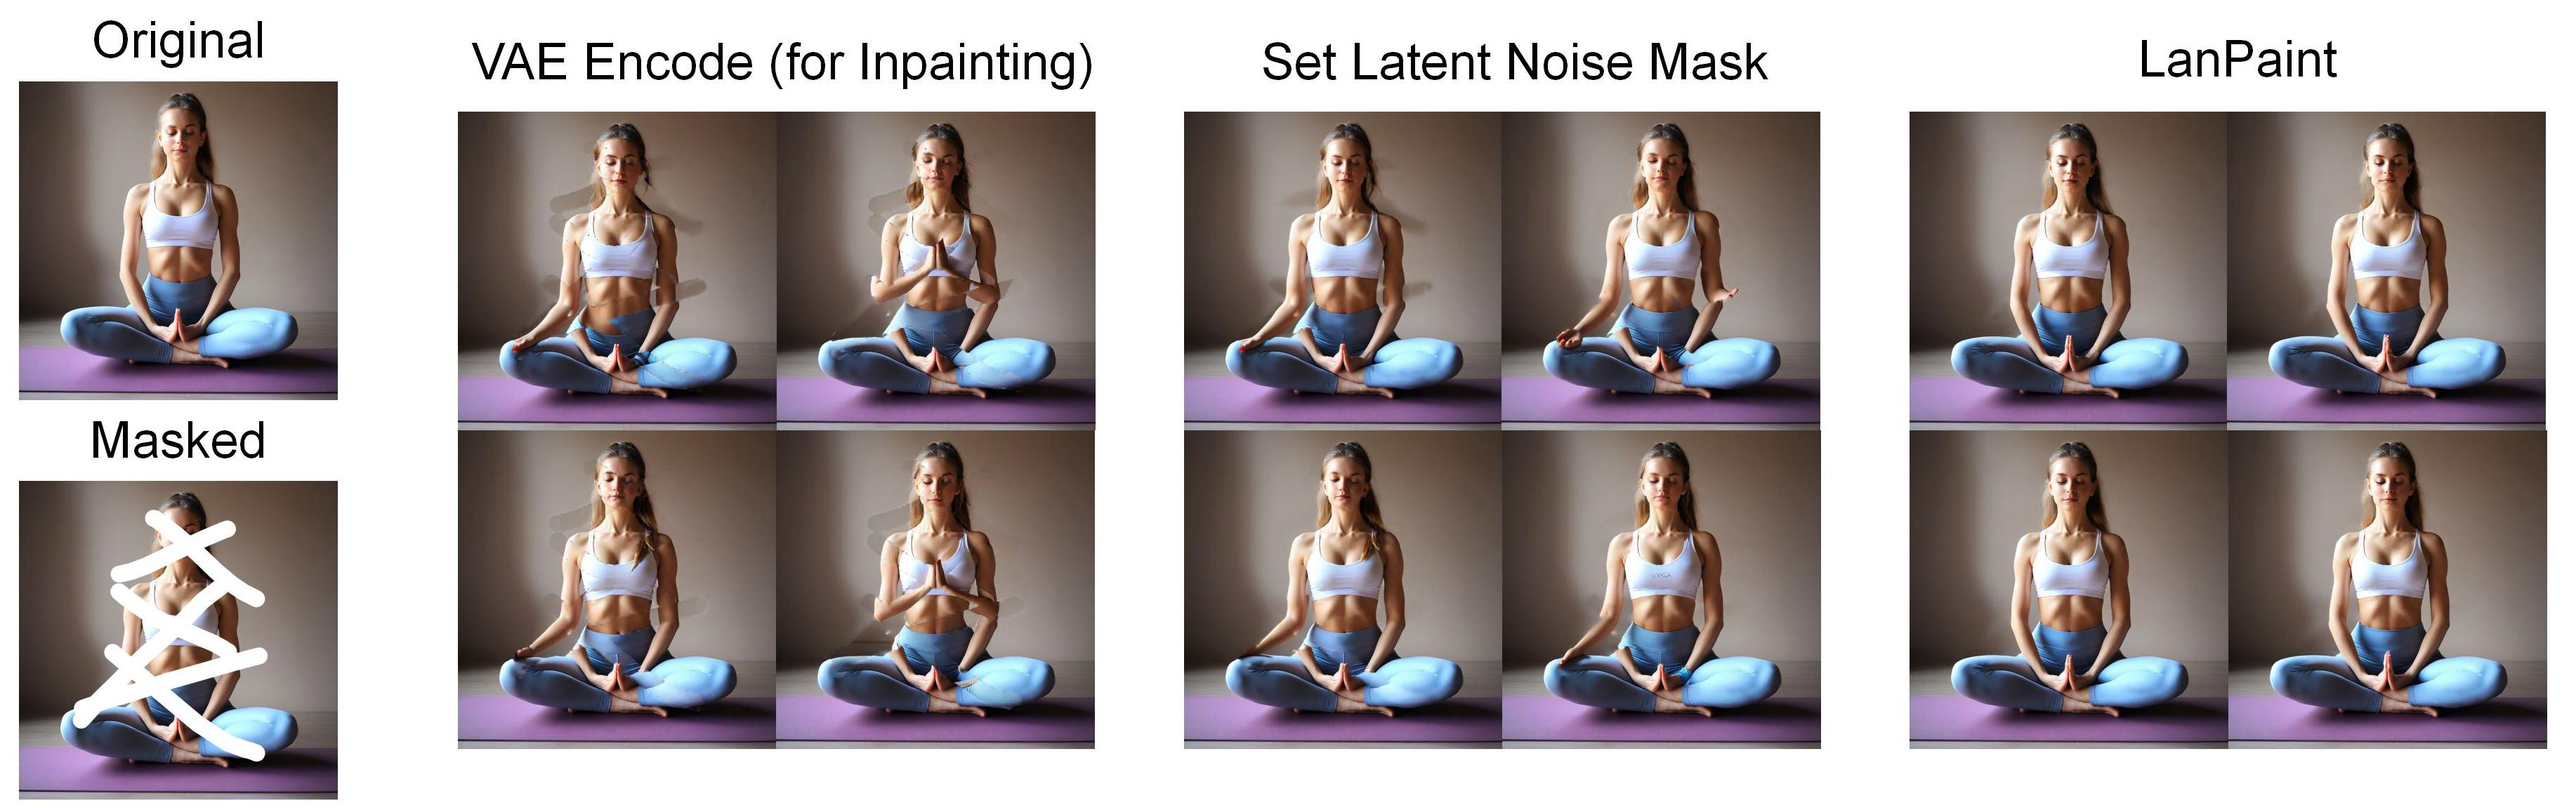
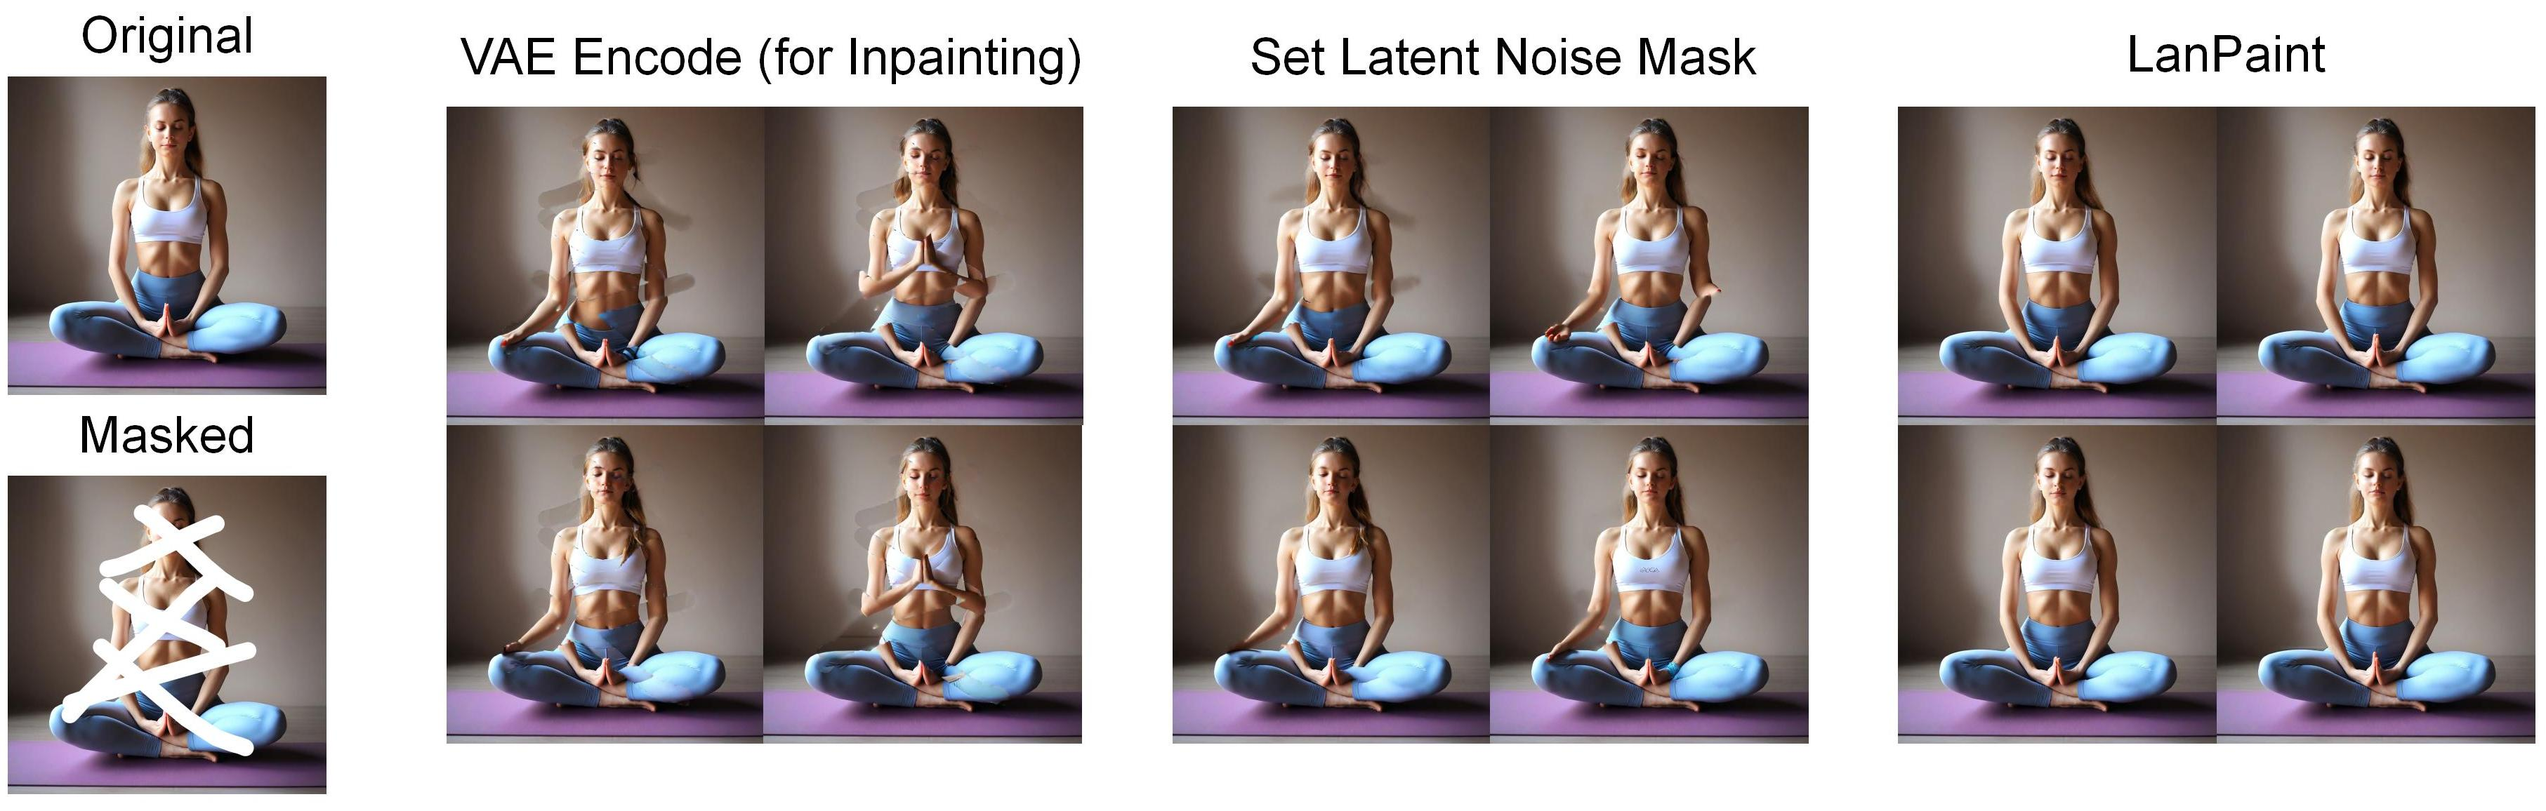
update examples

diff --git a/src/LanPaint/nodes.py b/src/LanPaint/nodes.py
@@ -91,8 +91,9 @@ class KSamplerX0Inpaint:
 
         # unify the notations into variance exploding diffusion model
         if IS_FLUX or IS_FLOW:
-            VE_Sigma = sigma / ( torch.maximum( 1 - sigma , sigma*0 + 5e-2  ))
-            self.VE_Sigmas = self.sigmas / ( torch.maximum( 1 - self.sigmas , self.sigmas*0 + 5e-2  ))
+            
+            VE_Sigma = sigma / ( 1 - sigma + 5e-3 * sigma)
+            self.VE_Sigmas = self.sigmas / (  1 - self.sigmas + 5e-3 * self.sigmas )
         else:
             VE_Sigma = sigma 
             self.VE_Sigmas = self.sigmas
@@ -230,9 +231,9 @@ class LanPaint_KSampler():
                 "negative": ("CONDITIONING", {"tooltip": "The conditioning describing the attributes you want to exclude from the image."}),
                 "latent_image": ("LATENT", {"tooltip": "The latent image to denoise."}),
                 "denoise": ("FLOAT", {"default": 1.0, "min": 0.0, "max": 1.0, "step": 0.01, "tooltip": "The amount of denoising applied, lower values will maintain the structure of the initial image allowing for image to image sampling."}),
-                "LanPaint_NumSteps": ("INT", {"default": 5, "min": 0, "max": 20, "tooltip": "The number of steps for the Langevin dynamics, representing the turns of thinking per step."}),  
-                "LanPaint_EndSigma": ("FLOAT", {"default": 3.0, "min": 0.0, "max": 20.0, "step": 0.01, "tooltip": "The noise level at which the thinking process stops. Higher value give less thinking but helps to deal with blurring when turns of thinking is too high."}),
-                "LanPaint_Info": ("STRING", {"default": "LanPaint KSampler. Recommend steps 50, LanPaint NumSteps 1-20 depending on the difficulty of task. LanPaint_EndSigma = 3.0 for anime style, 0.6 for realistic style. For more information, visit https://github.com/scraed/LanPaint", "multiline": True}),
+                "LanPaint_NumSteps": ("INT", {"default": 5, "min": 0, "max": 100, "tooltip": "The number of steps for the Langevin dynamics, representing the turns of thinking per step."}),
+                "LanPaint_PromptMode": (["Image First", "Prompt First"], {"tooltip": "Image First: emphasis image quality, Prompt First: emphasis prompt following"}),
+                "LanPaint_Info": ("STRING", {"default": "LanPaint KSampler. For more info, visit https://github.com/scraed/LanPaint. If you find it useful, please give a star ⭐!", "multiline": True}),
                   }
         }
 
@@ -243,21 +244,17 @@ class LanPaint_KSampler():
     CATEGORY = "sampling"
     DESCRIPTION = "Uses the provided model, positive and negative conditioning to denoise the latent image."
 
-    def sample(self, model, seed, steps, cfg, sampler_name, scheduler, positive, negative, latent_image, denoise=1.0, LanPaint_StepSize=0.05, LanPaint_NumSteps=5, LanPaint_EndSigma = 3., LanPaint_Info=""):
-        model.LanPaint_StepSize = 0.5
+    def sample(self, model, seed, steps, cfg, sampler_name, scheduler, positive, negative, latent_image, denoise=1.0, LanPaint_NumSteps=5, LanPaint_PromptMode = "Image First", LanPaint_Info=""):
+
+        model.LanPaint_StepSize = 0.15
         model.LanPaint_Lambda = 8.0
-        model.LanPaint_Beta = 1.2
+        model.LanPaint_Beta = 1.
         model.LanPaint_NumSteps = LanPaint_NumSteps
-        model.LanPaint_Friction = 5.
-        model.LanPaint_Alpha = 0.9
-        model.LanPaint_Tamed = 1.
-        model.LanPaint_BetaScale = "shrink"
-        model.LanPaint_StepSizeSchedule = "linear"
-        model.LanPaint_StepTimeSchedule = "shrink"
-        model.LanPaint_StartSigma = 20.
-        model.LanPaint_EndSigma = LanPaint_EndSigma
-        model.LanPaint_cfg_BIG = -0.5
-        model.LanPaint_Lambda_Schedule = "const"
+        model.LanPaint_Friction = 15
+        if LanPaint_PromptMode == "Image First":
+            model.LanPaint_cfg_BIG = cfg
+        else:
+            model.LanPaint_cfg_BIG = 0*cfg - 0.5
         with override_sample_function():
             return nodes.common_ksampler(model, seed, steps, cfg, sampler_name, scheduler, positive, negative, latent_image, denoise=denoise)
 class LanPaint_KSamplerAdvanced:
@@ -278,12 +275,12 @@ class LanPaint_KSamplerAdvanced:
                     "end_at_step": ("INT", {"default": 10000, "min": 0, "max": 10000}),
                     "return_with_leftover_noise": (["disable", "enable"], ),
                 "LanPaint_NumSteps": ("INT", {"default": 5, "min": 0, "max": 100, "tooltip": "The number of steps for the Langevin dynamics, representing the turns of thinking per step."}),
-                "LanPaint_Lambda": ("FLOAT", {"default": 8., "min": 0.1, "max": 50.0, "step": 0.1, "round": 0.1, "tooltip": "The lambda parameter for the bidirectional guidance. Higher values align with known regions more closely, but may result in instability."}),
+                "LanPaint_Lambda": ("FLOAT", {"default": 8., "min": 0.1, "max": 50.0, "step": 0.1, "round": 0.1, "tooltip": "The bidirectional guidance scale. Higher values align with known regions more closely, but may result in instability."}),
                 "LanPaint_StepSize": ("FLOAT", {"default": 0.15, "min": 0.0001, "max": 1., "step": 0.01, "round": 0.001, "tooltip": "The step size for the Langevin dynamics. Higher values result in faster convergence but may be unstable."}),
-                "LanPaint_Beta": ("FLOAT", {"default": 1.5, "min": 0.0001, "max": 5, "step": 0.1, "round": 0.1, "tooltip": "The beta parameter for the bidirectional guidance. Scale the step size for the known region independently for the Langevin dynamics. Higher values result in faster convergence but may be unstable."}),
-                "LanPaint_Friction": ("FLOAT", {"default": 1.5, "min": 0., "max": 50.0, "step": 0.1, "round": 0.1, "tooltip": "The friction parameter for the underdamped Langevin dynamics, higher values result in faster convergence but may be unstable."}),
-                "LanPaint_cfg_BIG": ("FLOAT", {"default": -0.5, "min": -20, "max": 20.0, "step": 0.1, "round": 0.1, "tooltip": "The CFG scale used in the bidirectional guidance (for the known region only). Higher value results in more closely matching the known region."}),
-                "LanPaint_Info": ("STRING", {"default": "LanPaint KSampler Advanced. For difficult tasks, first try increasing steps, LanPaint_NumSteps, and LanPaint_cfg_BIG. Then try increase LanPaint_Lambda or LanPaint_StepSize. Decrease LanPaint_Friction if you want to obtain good results with fewer turns of thinking (LanPaint_NumSteps) at the risk of irregular behavior. Increase LanPaint_Tamed or LanPaint_Alpha can suppress irregular behavior. For more information, visit https://github.com/scraed/LanPaint", "multiline": True}),
+                "LanPaint_Beta": ("FLOAT", {"default": 1., "min": 0.0001, "max": 5, "step": 0.1, "round": 0.1, "tooltip": "The step size ratio between masked / unmasked regions. Lower value can compensate high values of LanPaint_Lambda."}),
+                "LanPaint_Friction": ("FLOAT", {"default": 15, "min": 0., "max": 50.0, "step": 0.1, "round": 0.1, "tooltip": "The friction parameter for fast langevin, lower values result in faster convergence but may be unstable."}),
+                "LanPaint_PromptMode": (["Image First", "Prompt First"], {"tooltip": "Image First: emphasis image quality, Prompt First: emphasis prompt following"}),
+                "LanPaint_Info": ("STRING", {"default": "LanPaint KSampler Adv. For more info, visit https://github.com/scraed/LanPaint. If you find it useful, please give a star ⭐!", "multiline": True}),
                      },
                 }
 
@@ -292,7 +289,7 @@ class LanPaint_KSamplerAdvanced:
 
     CATEGORY = "sampling"
 
-    def sample(self, model, add_noise, noise_seed, steps, cfg, sampler_name, scheduler, positive, negative, latent_image, start_at_step, end_at_step, return_with_leftover_noise, denoise=1.0, LanPaint_StepSize=0.05, LanPaint_Lambda=5, LanPaint_Beta=1, LanPaint_NumSteps=5, LanPaint_Friction=5, LanPaint_cfg_BIG = 5., LanPaint_Info=""):
+    def sample(self, model, add_noise, noise_seed, steps, cfg, sampler_name, scheduler, positive, negative, latent_image, start_at_step, end_at_step, return_with_leftover_noise, denoise=1.0, LanPaint_StepSize=0.05, LanPaint_Lambda=5, LanPaint_Beta=1, LanPaint_NumSteps=5, LanPaint_Friction=5, LanPaint_PromptMode = "Image First", LanPaint_Info=""):
         force_full_denoise = True
         if return_with_leftover_noise == "enable":
             force_full_denoise = False
@@ -304,7 +301,10 @@ class LanPaint_KSamplerAdvanced:
         model.LanPaint_Beta = LanPaint_Beta
         model.LanPaint_NumSteps = LanPaint_NumSteps
         model.LanPaint_Friction = LanPaint_Friction
-        model.LanPaint_cfg_BIG = LanPaint_cfg_BIG
+        if LanPaint_PromptMode == "Image First":
+            model.LanPaint_cfg_BIG = cfg
+        else:
+            model.LanPaint_cfg_BIG = 0*cfg - 0.5
 
         with override_sample_function():
             return nodes.common_ksampler(model, noise_seed, steps, cfg, sampler_name, scheduler, positive, negative, latent_image, denoise=denoise, disable_noise=disable_noise, start_step=start_at_step, last_step=end_at_step, force_full_denoise=force_full_denoise)

diff --git a/src/LanPaint/lanpaint.py b/src/LanPaint/lanpaint.py
@@ -61,7 +61,9 @@ class LanPaint():
         lamb = self.chara_lamb
 
         if self.IS_FLUX or self.IS_FLOW:
-            x_0, x_0_BIG = self.inner_model(x_t / ( 1 + sigma ), sigma[:, 0,0,0] / ( 1 + sigma[:, 0,0,0] ), model_options=model_options, seed=seed)
+            # compute t for flow model, with a small epsilon compensating for numerical error.
+            t_flow =  sigma[:, 0,0,0] / ( 1 + sigma[:, 0,0,0] - 5e-3 * sigma[:, 0,0,0] )
+            x_0, x_0_BIG = self.inner_model(x_t / ( 1 + sigma ), t_flow, model_options=model_options, seed=seed)
         else:
             x_0, x_0_BIG = self.inner_model(x_t, sigma[:, 0,0,0], model_options=model_options, seed=seed)
 
